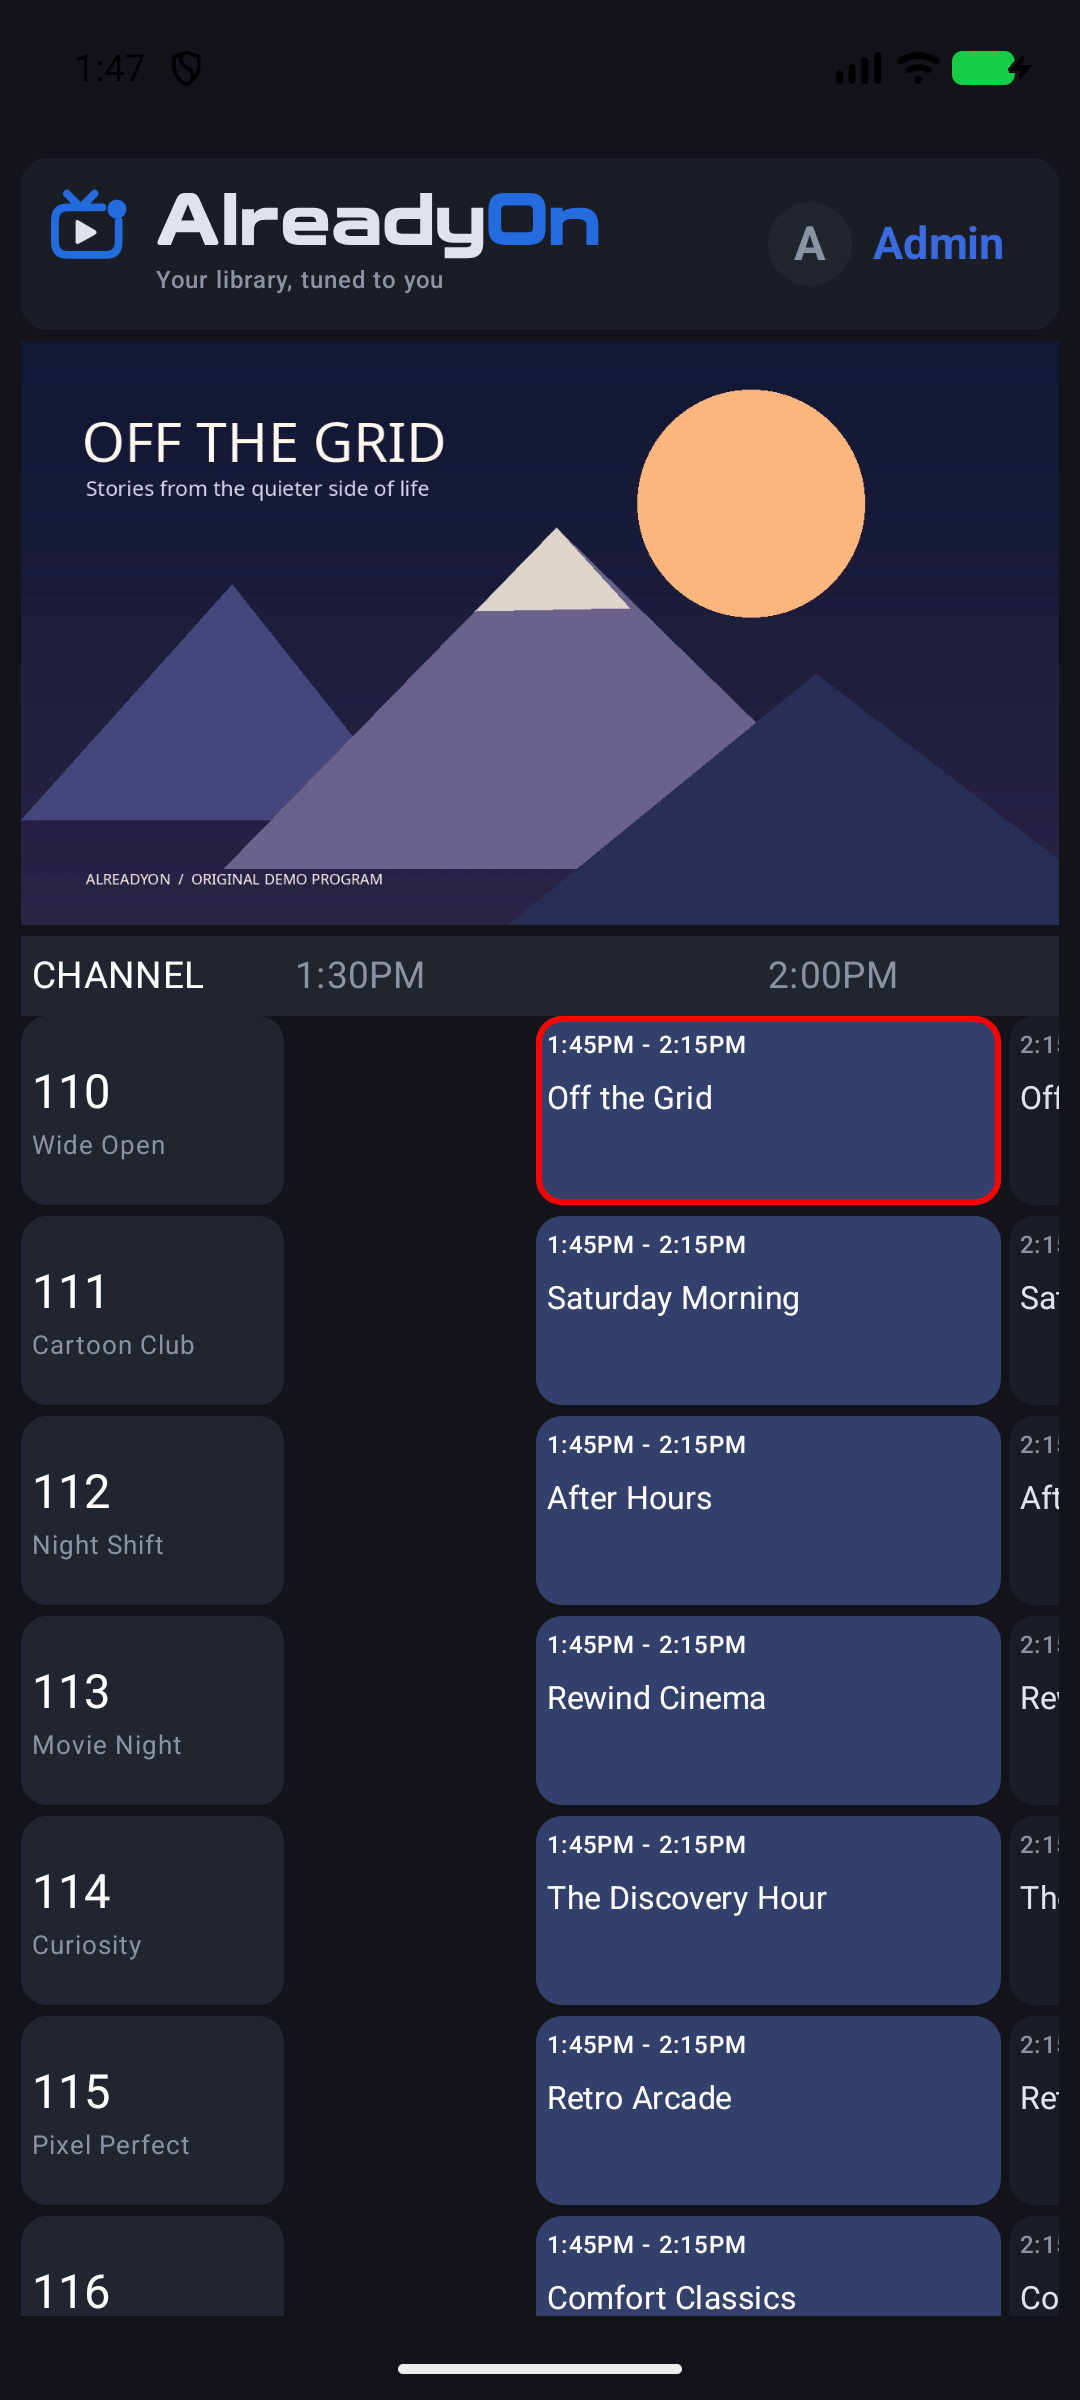
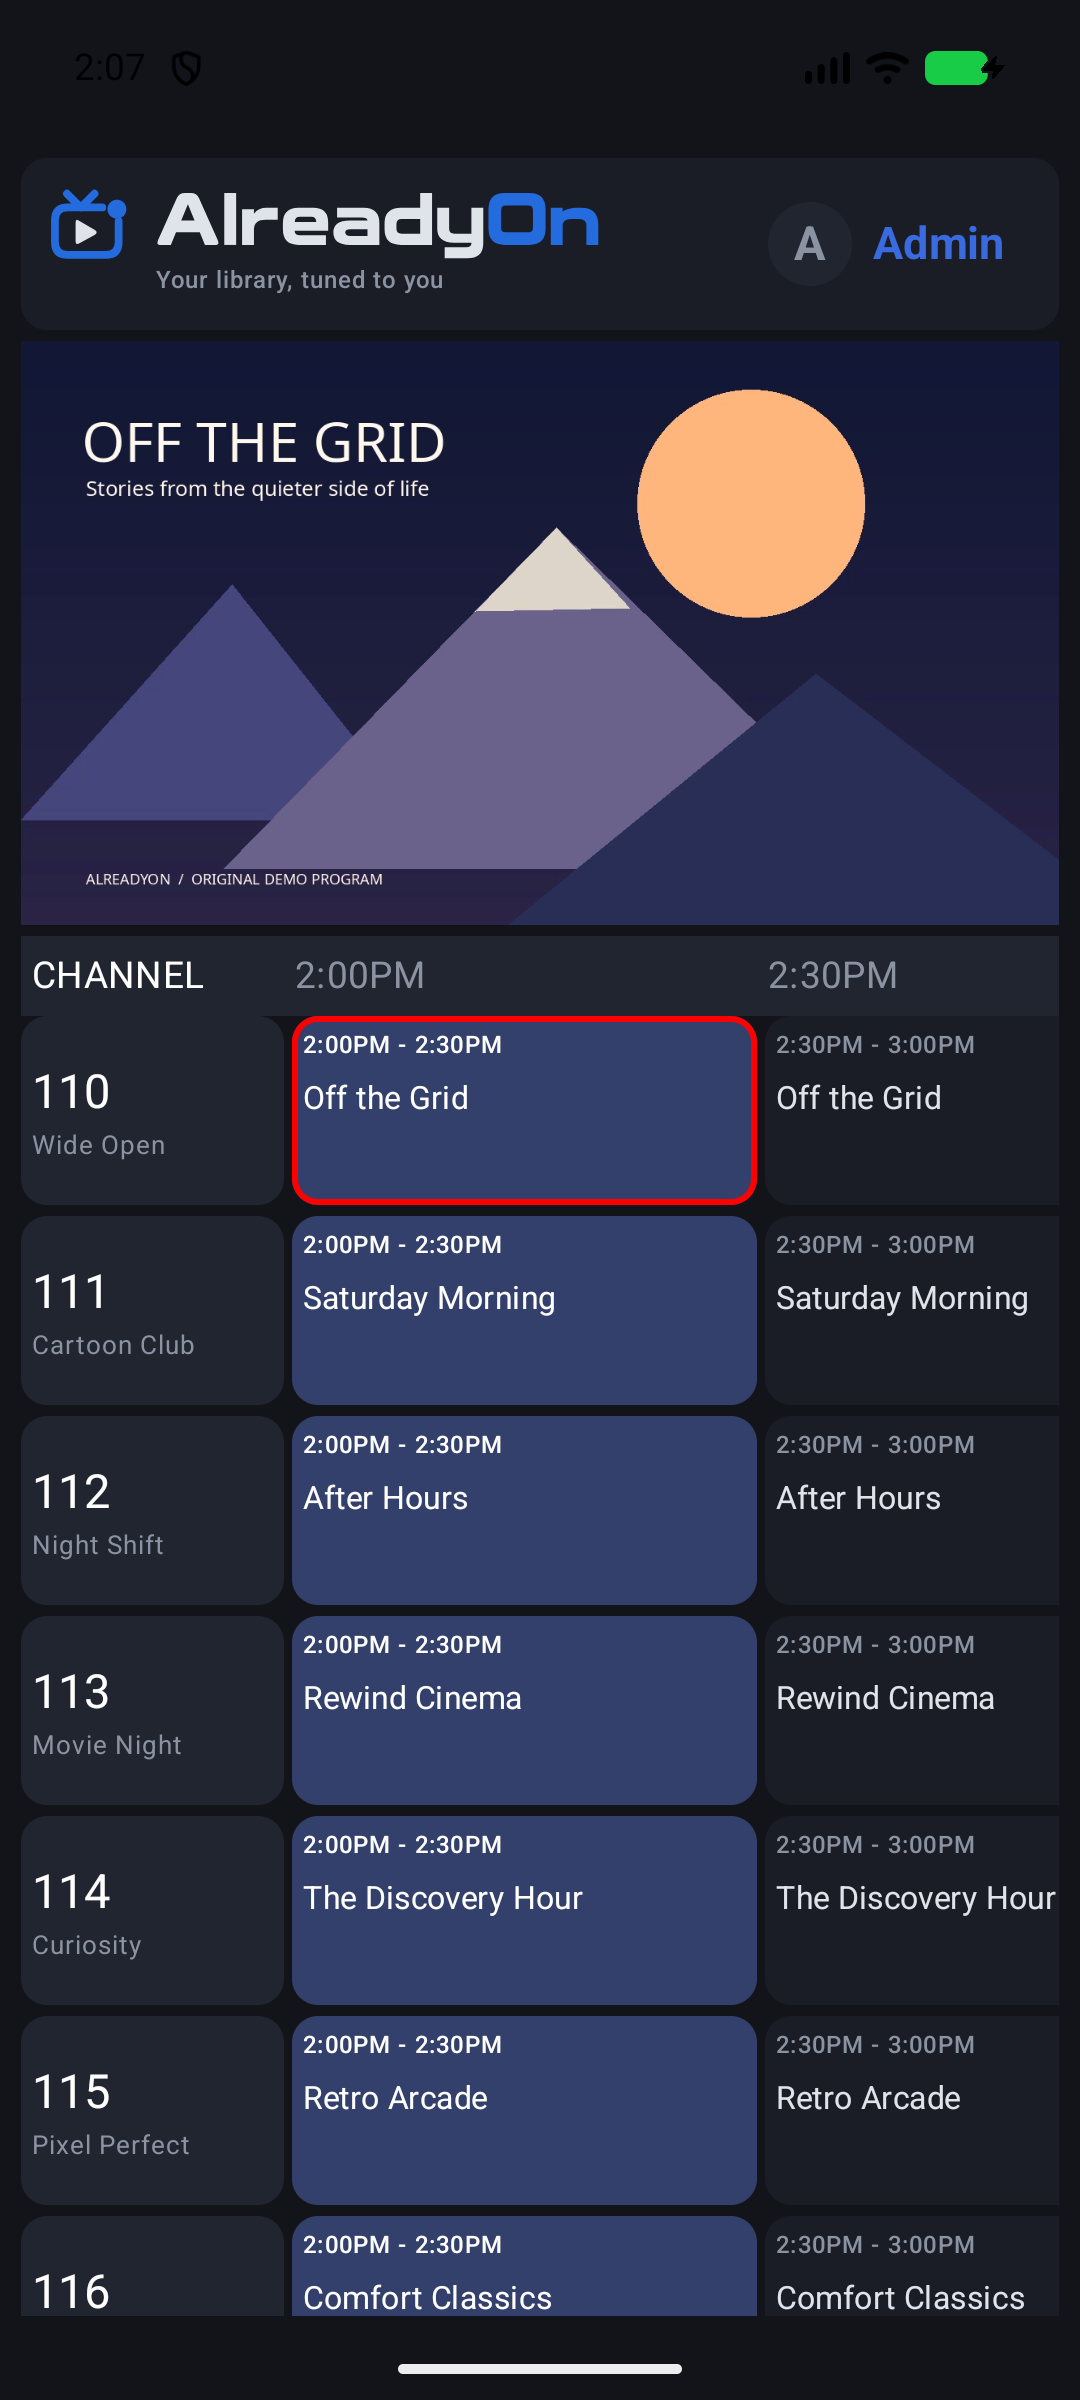
Fill first timeslot in product website screenshots

Changed region(s): [[0.2444, 0.4062, 0.9778, 0.9688], [0.7639, 0.0, 0.8861, 0.0625], [0.9167, 0.0, 0.9472, 0.0312]]

diff --git a/website/assets/screenshots/README.md b/website/assets/screenshots/README.md
@@ -9,3 +9,9 @@ Captured on October 13, 2026 from the actual AlreadyOn interfaces for the produc
 All captures use an isolated disposable HTTPS server and SQLite database. The eight demo channels, program names, metadata and mountain illustration are original synthetic content. The illustration was drawn in code and encoded as a silent video for real playback. No commercial program artwork, downloaded media, live accounts, credentials, personal library information or workstation paths appear in these images. The product UI has not been generated, recreated or composited. Presentation framing and gloss belong to the website CSS.
 
 The native APKs were built with `:app:assembleDebug :tv:assembleDebug`; both succeeded. Screenshots demonstrate the interfaces, not physical-device release acceptance or the full release validation suite. Emulator app data was cleared only on the explicitly selected disposable capture emulators, and owned emulators and the fixture server were stopped after capture.
+
+## Guide continuity for future captures
+
+The screenshots were recaptured with every visible channel continuously scheduled from the current rounded half-hour minus one hour through the following 26 hours. Seed slots on half-hour boundaries, with each slot's end equal to the next slot's start, and use media long enough to play through the entire slot. Do not shift the fixture schedule to capture time: doing so leaves an empty first timeslot when the guide rounds its window backwards.
+
+Before capture, verify all eight channels have a program whose start is at or before the earliest visible guide boundary and whose end is after it. The disposable SQLite schedule check confirmed 8/8 channels covering that boundary and adjacent intervals with no gaps across the full fixture window. Visually inspect the leftmost program column in each actual WebUI, phone and TV capture. The recaptured WebUI shows programs beginning at 2:00pm on every channel; native captures use the same continuous fixture. Images are direct browser/emulator screenshots, with no editing of program cells or UI.
